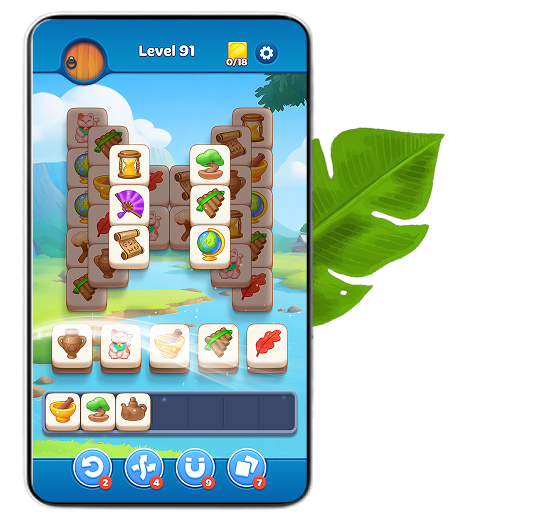
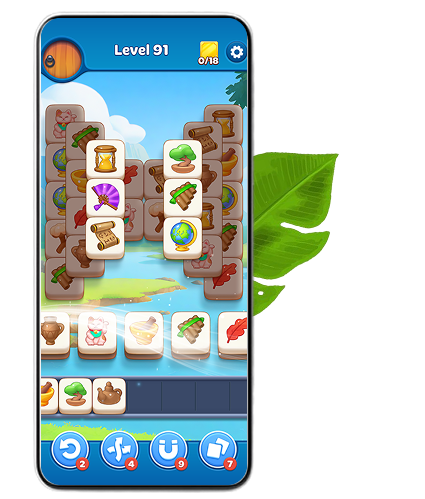
02 +04

diff --git a/src/scss/layout/02-hero.scss b/src/scss/layout/02-hero.scss
@@ -5,47 +5,73 @@
   font-family: 'Inter', sans-serif;
   position: relative;
   overflow: hidden;
-  &::before {
-    position: absolute;
-    content: '';
-    background-image: url('/img/02-hero/palma.png');
-    background-repeat: no-repeat;
-    height: 400px;
-    width: 250px;
-    transform: translate(-31%, 18px);
-  }
   @media (min-width: 1200px) {
     max-width: 1200px;
     padding: 140px 0 24px 0;
     min-height: 800px;
     overflow: visible;
   }
+  &::before {
+    position: absolute;
+    content: '';
+    background-image: url('/img/02-hero/hero_vector@mob1x.png');
+    background-repeat: no-repeat;
+    background-size: contain;
+    height: 175px;
+    width: 230px;
+    transform: translate(40px, 233px);
+    @media (-webkit-min-device-pixel-ratio: 2),
+      (min-resolution: 192dpi),
+      (min-resolution: 2dppx) {
+      background-image: url('/img/02-hero/hero_vector@mob2x.png');
+    }
+  }
 
   &::after {
     position: absolute;
     content: '';
-    background-image: url('/img/02-hero/palma2.png');
+    background-image: url('/img/02-hero/hero_palma@mob1x.png');
     right: 0;
     top: -20px;
     background-repeat: no-repeat;
-    background-position: right -115% top -15px;
-    width: 250px;
-    height: 400px;
-    // transform: translate(0, 180px);
+    background-position: -50px -20px;
+    width: 85px;
+    height: 150px;
+    transform: translate(-40px, 182px);
+    @media (-webkit-min-device-pixel-ratio: 2),
+      (min-resolution: 192dpi),
+      (min-resolution: 2dppx) {
+      background-image: url('/img/02-hero/hero_palma@mob2x.png');
+      background-size: 170px 188px;
+    }
   }
   @media (min-width: 1200px) {
     max-width: 1200px;
     &::before {
-      background-image: url('/img/02-hero/palma@2x.png');
-      width: 300px;
-      background-position: right -55% top -15%;
-      transform: translate(15%, -140px) scale(1.3);
+      background-image: url('/img/02-hero/hero_vector@desktop1x.png');
+      width: 400px;
+      height: 350px;
+      background-size: contain;
+      transform: translate(710px, 210px) scale(1.3);
+      @media (-webkit-min-device-pixel-ratio: 2),
+        (min-resolution: 192dpi),
+        (min-resolution: 2dppx) {
+        background-image: url('/img/02-hero/hero_vector@desktop2x.png');
+      }
     }
     &::after {
-      background-image: url('/img/02-hero/palma-r@descktop1x.png');
-      width: 300px;
-      height: 700px;
-      background-position: right top -60px;
+      background-image: url('../../img/02-hero/hero_palma@desktop1x.png');
+      width: 220px;
+      height: 350px;
+      background-size: 420px;
+      background-position: -100px -60px;
+      transform: translate(5px, 155px);
+      z-index: 2;
+      @media (-webkit-min-device-pixel-ratio: 2),
+        (min-resolution: 192dpi),
+        (min-resolution: 2dppx) {
+        background-image: url('/img/02-hero/hero_palma@desktop2x.png');
+      }
     }
   }
 }
@@ -53,12 +79,12 @@
   .container {
     display: flex;
     flex-direction: column;
-    gap: 430px;
+    gap: 390px;
     position: relative;
 
     @media (min-width: 1200px) {
       gap: 85px;
-      padding: 0 140px;
+      padding: 0 80px;
     }
   }
 }
@@ -66,6 +92,10 @@
   display: flex;
   flex-direction: column;
   gap: 4px;
+  align-items: center;
+  @media (min-width: 1200px) {
+    align-items: start;
+  }
 }
 .hero-title {
   position: relative;
@@ -110,12 +140,12 @@
 }
 
 .hero-phone {
-  transform: rotate(11deg) translate(-50%, 110px);
+  transform: scale(0.8) rotate(11deg) translate(-50%, 110px);
   position: absolute;
   left: 50%;
   overflow: visible;
   @media (min-width: 1200px) {
-    transform: rotate(11deg) translate(100px, -80px);
+    transform: scale(0.8) rotate(11deg) translate(150px, -230px);
     z-index: 1;
   }
   img {

diff --git a/src/scss/layout/04-garden.scss b/src/scss/layout/04-garden.scss
@@ -61,6 +61,7 @@
     rgba(0, 102, 153, 0.3) 0%,
     rgba(0, 102, 153, 0) 70%
   );
+
   filter: blur(5px);
   transform: rotate(-25deg);
   z-index: -1;
@@ -75,7 +76,7 @@
 
 @media screen and (min-width: 1200px) {
   .gardens__wrapper {
-    display: grid;
+    display: flex;
     justify-items: center;
   }
   .gardens__text {
@@ -90,6 +91,12 @@
   }
 
   .gardens__text {
+    max-width: 575px;
+    display: flex;
+    flex-direction: column;
+    justify-content: center;
+    gap: 18px;
+
     text-align: start;
     font-family: 'Inter', sans-serif;
     font-weight: 400;
@@ -98,10 +105,11 @@
   }
 
   .gardens__image {
+    padding-left: 60px;
     width: 333px;
     height: 358px;
     margin-top: 24px;
-    justify-content: flex-end;
+    justify-content: flex-start;
   }
 
   .gardens__image::before {
@@ -115,10 +123,10 @@
       rgba(0, 102, 153, 0) 70%
     );
     filter: blur(5px);
-    transform: rotate(-25deg);
+    transform: rotate(-5deg);
     z-index: -1;
-    top: 50px;
-    left: -230px;
+    top: 100px;
+    left: -480px;
     pointer-events: none;
   }
   .gardens__green {
@@ -134,12 +142,17 @@
     &::before {
       position: absolute;
       content: '';
-      background-image: url('/img/04-garden/palma-garden.png');
+      background-image: url('/img/02-hero/hero_vector@desktop1x.png');
       background-repeat: no-repeat;
-      height: 100%;
-      width: 250px;
-      overflow: visible;
-      transform: translateY(10px);
+      background-size: contain;
+      height: 250px;
+      width: 340px;
+      transform: translate(660px, 160px);
+      @media (-webkit-min-device-pixel-ratio: 2),
+        (min-resolution: 192dpi),
+        (min-resolution: 2dppx) {
+        background-image: url('/img/02-hero/hero_vector@desktop2x.png');
+      }
     }
   }
 }

diff --git a/src/scss/layout/06-plant.scss b/src/scss/layout/06-plant.scss
@@ -1,6 +1,7 @@
 @import 'swiper/css';
 .plant {
-  margin: 20px auto 0 auto;
+  padding: 20px 0;
+  margin: 0 auto;
 
   font-family: 'Inter', sans-serif;
   display: flex;
@@ -11,10 +12,12 @@
 
   @media (min-width: 1200px) {
     max-width: 1200px;
-    margin-top: 80px;
+    padding-top: 80px;
+    padding-bottom: 107px;
   }
   .section {
     margin: 0 auto;
+    padding: 0 32px;
   }
 }
 
@@ -27,7 +30,7 @@
   &::before {
     position: absolute;
     top: 0;
-    left: auto;
+    left: 0;
     z-index: -1;
     text-align: center;
     font-size: 32x;
